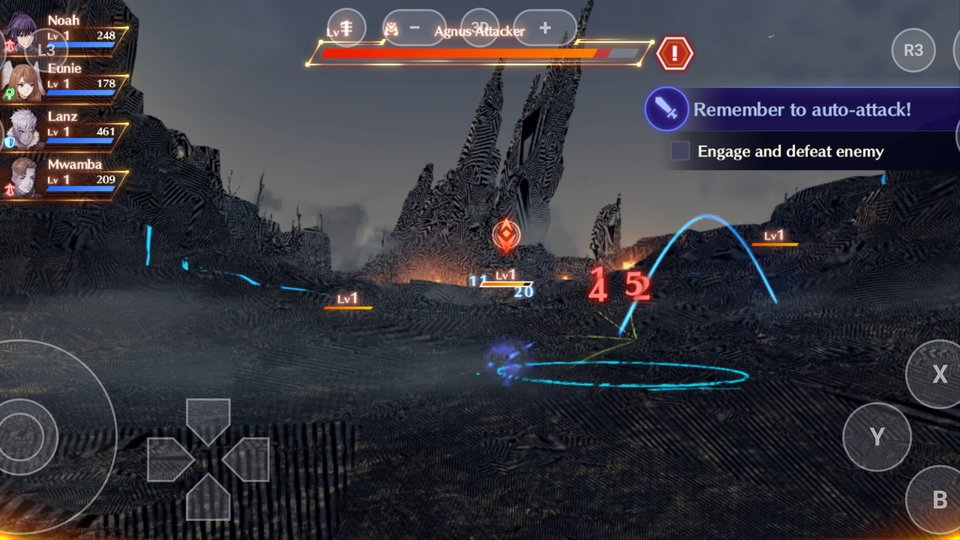
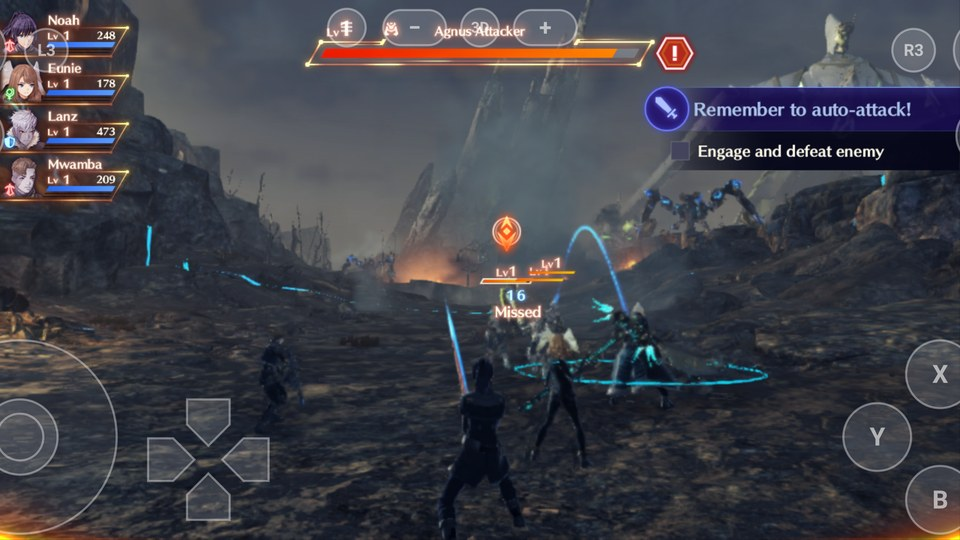
OCTOPATH TRAVELER II, Xenoblade Chronicles 2 and 3: the rows after the stencil-mode fix
#363 landed, and three rows still named what it fixed.
- OCTOPATH TRAVELER II's battlefield streaks were the same stencil-mode read: q256's before/after on the S25 Edge shows the ground drawn right, and q257's alternating A/B found no cost. The row stays Playable – major, since the battlefield's 43–50 fps is under 90% of 60 and nothing is compared with the Mac.
- Xenoblade Chronicles 2's stipple is gone on the S25 Edge and the Z Flip 7 (q255), so it comes off the issues, as #363's own body said it would once #362 landed.
- Xenoblade Chronicles 3's row still blamed undrawn characters, which #349 fixed. q258 has the world and the characters drawn and gameplay at 5.6–7 fps, bound by the replay's skinning path on the CPU, so it stays In-game, blocked with that as the blocker.

Both striped gallery pictures (XC2's and XC3's) give way to clean frames, and XC2's old one stays in its note as the before picture.

Also in this pull request:
- OCTOPATH TRAVELER II's note: the BC-decode remark belongs to the resolved streaks, not to the picture that stays

diff --git a/README.md b/README.md
@@ -169,7 +169,7 @@ gesture bar. On a phone, DroidPlay's on-screen controls are drawn over the game.
 </tr>
 <tr>
 <td align="center" valign="top" width="33%"><img src="docs/images/android/pokemon-legends-arceus-oneplus-pad-3.jpg" width="256" alt="Pokémon Legends: Arceus on a OnePlus Pad 3, from a new game: the player throwing a Poké Ball at Cyndaquil beside a boulder near Prelude Beach, under the on-screen controls"><br><small><b><a href="dm/games/01001F5010DFA000/README.md">Pokémon Legends: Arceus</a></b><br><a href="#tiers"><img src="docs/badges/playable-major.svg" height="20" alt="Playable – major issues"></a><br>OnePlus Pad 3: the first catch, 30 fps</small></td>
-<td align="center" valign="top" width="33%"><img src="docs/images/android/xenoblade-chronicles-2-galaxy-s25-edge.jpg" width="256" alt="Xenoblade Chronicles 2 on a Samsung Galaxy S25 Edge, from a new game: Rex at Argentum's Goldmouth Return Port after Continue, a stipple pattern over the walls and crates, under the on-screen controls"><br><small><b><a href="dm/games/0100E95004038000/README.md">Xenoblade Chronicles 2</a></b><br><a href="#tiers"><img src="docs/badges/playable-major.svg" height="20" alt="Playable – major issues"></a><br>Samsung Galaxy S25 Edge: Argentum, 10–30 fps</small></td>
+<td align="center" valign="top" width="33%"><img src="docs/images/android/xenoblade-chronicles-2-galaxy-z-flip-7.jpg" width="256" alt="Xenoblade Chronicles 2 on a Samsung Galaxy Z Flip 7: King Crustip on the ship's deck at the start of the tutorial battle, Rex in front, drawn clean, under the on-screen controls"><br><small><b><a href="dm/games/0100E95004038000/README.md">Xenoblade Chronicles 2</a></b><br><a href="#tiers"><img src="docs/badges/playable-major.svg" height="20" alt="Playable – major issues"></a><br>Samsung Galaxy Z Flip 7: King Crustip's battle, 30 fps</small></td>
 <td align="center" valign="top" width="33%"><img src="docs/images/android/super-mario-odyssey-retroid-pocket-5.jpg" width="256" alt="Super Mario Odyssey's opening cutscene on a Retroid Pocket 5"><br><small><b><a href="dm/games/0100000000010000/README.md">Super Mario Odyssey</a></b><br><a href="#tiers"><img src="docs/badges/in-game.svg" height="20" alt="In-game"></a><br>Retroid Pocket 5: the opening cutscene, 59 fps</small></td>
 </tr>
 <tr>
@@ -180,7 +180,7 @@ gesture bar. On a phone, DroidPlay's on-screen controls are drawn over the game.
 <tr>
 <td align="center" valign="top" width="33%"><img src="docs/images/android/blasphemous-2-odin-2.jpg" width="256" alt="Blasphemous 2 on an Ayn Odin 2: the Penitent One in the room of the three statues"><br><small><b><a href="dm/games/010040801A4C8000/README.md">Blasphemous 2</a></b><br><a href="#tiers"><img src="docs/badges/in-game.svg" height="20" alt="In-game"></a><br>Ayn Odin 2: the room of the three statues, 60 fps</small></td>
 <td align="center" valign="top" width="33%"><img src="docs/images/android/donkey-kong-country-returns-hd-odin-2.jpg" width="256" alt="Donkey Kong Country Returns HD on an Ayn Odin 2: Donkey Kong on the beach in 1-1 Jungle Hijinxs"><br><small><b><a href="dm/games/01009D901BC56000/README.md">Donkey Kong Country Returns HD</a></b><br><a href="#tiers"><img src="docs/badges/in-game.svg" height="20" alt="In-game"></a><br>Ayn Odin 2: 1-1 Jungle Hijinxs, 60 fps</small></td>
-<td align="center" valign="top" width="33%"><img src="docs/images/android/xenoblade-chronicles-3-galaxy-s25-edge.jpg" width="256" alt="Xenoblade Chronicles 3 on a Samsung Galaxy S25 Edge: the first battle with no characters drawn, the ground and the rocks in black-and-white stripes, under the on-screen controls"><br><small><b><a href="dm/games/010074F013262000/README.md">Xenoblade Chronicles 3</a></b><br><a href="#tiers"><img src="docs/badges/in-game-blocked.svg" height="20" alt="In-game, blocked"></a><br>Samsung Galaxy S25 Edge: the first battle, no characters drawn, the ground striped, 24–30 fps</small></td>
+<td align="center" valign="top" width="33%"><img src="docs/images/android/xenoblade-chronicles-3-galaxy-s25-edge.jpg" width="256" alt="Xenoblade Chronicles 3 on a Samsung Galaxy S25 Edge: Noah and the party fighting an Agnus soldier in the first battle on the Everblight Plain, the ground and the rocks drawn clean, under the on-screen controls"><br><small><b><a href="dm/games/010074F013262000/README.md">Xenoblade Chronicles 3</a></b><br><a href="#tiers"><img src="docs/badges/in-game-blocked.svg" height="20" alt="In-game, blocked"></a><br>Samsung Galaxy S25 Edge: the first battle, 5.6 fps</small></td>
 </tr>
 <tr>
 <td align="center" valign="top" width="33%"><img src="docs/images/android/mario-kart-world-oneplus-pad-3.jpg" width="256" alt="Mario Kart World on a OnePlus Pad 3: Mario in seventh place on the first lap at Mario Bros. Circuit, the track's surface untextured, under the on-screen controls"><br><small><b><a href="dm/games/0400C3F00006E000/README.md">Mario Kart World</a></b><br><a href="#tiers"><img src="docs/badges/in-game-blocked.svg" height="20" alt="In-game, blocked"></a><br>OnePlus Pad 3: a race at Mario Bros. Circuit, 15–21 fps</small></td>
@@ -224,7 +224,7 @@ and what has not been tried.
 | Divinity: Original Sin 2 - Definitive Edition 1.0.3.1 | Ayn Odin 2, OnePlus Pad 3, Google Pixel 9 Pro XL | Playable – minor issues through the second fight below deck (before the locked Greasy Door): the game's 30 fps from a new game through character creation and the opening cinematic into the Merryweather's hold, then by hand to the cabin deck, and on the Odin 2 through the burning hold to the top deck's first fight (two Voidwoken, won), the lifeboat and its dialogue, and below deck a second fight (Void Hatchlings, won with Lohse and Beast), with sound, Quick Saves dated by the host's clock and Continue loading the latest after a cold start. Every window's median frame time 33.1–33.5 ms; four alpha-test red lines in the log, nothing wrong on screen. On the Pixel 9 Pro XL (Mali) the top deck's first fight, won, at 30 fps too, with sound and Continue after a cold start; its GPU takes about 26 ms of the 33 ms frame ([its note](dm/games/010027400CDC6000/README.md#on-the-pixel-9-pro-xl)). On the Pad 3 it runs at 40 or 60 fps with a setting, the game moving by real time at each, and held 60 for 25 minutes ([its note](dm/games/010027400CDC6000/README.md#frame-rate)). Not played as far as Fort Joy |
 | The Legend of Zelda: Breath of the Wild 1.9.0 | Ayn Odin 2, OnePlus Pad 3, Samsung Galaxy S25 Edge, Samsung Galaxy Z Fold 8 | Playable – major issues through the Shrine of Resurrection onto the Great Plateau (no combat yet): 30 fps (its Android target) on the Odin 2, played by hand from a new game: waking in the Shrine, taking the Sheikah Slate, opening its doors and climbing out, then the cutscene over Hyrule and the first minutes on the plateau, with sound, an autosave made on the phone and Continue after a cold start. The Old Man not reached ([its note](dm/games/01007EF00011E000/README.md#android)). Issues: the stretch ends before the first combat; the frame where Link died from a fall had red smears on nearby rocks, not compared with the Mac. The Shrine from a save made on the Mac: 30 fps on the Pad 3 and the S25 Edge with its Android defaults (descriptor sets bound again, the command recorder, a 30 fps target); 24 on the Galaxy Z Fold 8, whose GPU takes 30 ms a frame. On the Pad 3 it lost the GPU at its first frame in the field, and on both Adreno 830s it drew the Shrine dark: both are fixed, checked on the S25 Edge and, by hand from a new game with main's 0.7.5 build, on the Pad 3: the Shrine lit, about 5.5 minutes on the plateau without losing the GPU at 30 fps, and a save loaded by Continue after a cold start. 60 fps needs the replay's CPU time and the GPU's to come down |
 | OCTOPATH TRAVELER 1.0.3 | Google Pixel 9 Pro XL | Playable – major issues through H'aanit's first battles: on the Pixel 9 Pro XL (Mali-G715, Android 17), played over adb from a new game through H'aanit's opening (the flashback and S'warkii), the headman, the Path Actions tutorial and two Provoke battles against the fledgling hunters, both won, then a save at the village's save monument, loaded by Continue after a cold start, and on to the Path to the Whisperwood's first monster battle (a Marmot, broken and beaten), with sound and no crash ([its note](dm/games/010057D006492000/README.md#android)). Built from the cartridge's 1.0.3 with a profile derived from 1.0.5's; the shader split found all 5,434 shaders. The target is 60 fps (the Switch runs it at 30): the battles and the Whisperwood hold 57–60, and the medians were 52.1 fps from the new game to the save and 58.7 from Continue to the Marmot. 3.4 GB at most (the process's memory cgroup), well under Android 17's 8 GiB cap; never killed. Issues: in S'warkii the Mali's GPU takes 17–19 ms a frame, so the village runs at 44–57 fps and its save screen at 38; on the Path to the Whisperwood, pale sharp-edged areas at the top and bottom of the screen where the blurred foreground meets the background, not compared with the Mac (not played that far there). Not yet Playable – minor issues: the median is under 57 fps and those areas aren't compared. Not tried on the other devices |
-| OCTOPATH TRAVELER II 1.0.0 | Samsung Galaxy S25 Edge, Samsung Galaxy Z Flip 7 | Playable – major issues through Hikari's first battle: on the S25 Edge (Adreno 830), played over adb from a new game through the initial settings, Hikari's opening and the battlefield's first battle with its tutorials (won), then free roam on the battlefield and two more battles, with sound and no crash, and the game's autosave on the battlefield loaded by Continue after a cold start; the same on the Galaxy Z Flip 7 (Xclipse 950) ([its note](dm/games/0100A3501946E000/README.md#android)). Built from the cartridge's base game 1.0.0 with a profile derived from 1.1.1's; all 13,942 of its shaders translated. The target is 60 fps (the Switch runs it at 30): the battles, scenes and the camp hold 56–60 on both phones, and the S25 Edge's 30 s windows had a median of 59.1. 3.2–3.3 GB PSS, never killed. Issues: the battlefield's top-down field (1,700–2,050 draws a frame) runs at 43–50 fps; its ground, rocks and the camp's ground are drawn as horizontal streaks on both phones (not the Xclipse's BC decode: the Adreno reads BC itself), not compared with the Mac. The prologue's next fight, Rai Mei's battle with the mounted general, was lost by the agent's plain attacks; not played past it. Not tried on the other devices |
+| OCTOPATH TRAVELER II 1.0.0 | Samsung Galaxy S25 Edge, Samsung Galaxy Z Flip 7 | Playable – major issues through Hikari's first battle: on the S25 Edge (Adreno 830), played over adb from a new game through the initial settings, Hikari's opening and the battlefield's first battle with its tutorials (won), then free roam on the battlefield and two more battles, with sound and no crash, and the game's autosave on the battlefield loaded by Continue after a cold start; the same on the Galaxy Z Flip 7 (Xclipse 950) ([its note](dm/games/0100A3501946E000/README.md#android)). Built from the cartridge's base game 1.0.0 with a profile derived from 1.1.1's; all 13,942 of its shaders translated. The target is 60 fps (the Switch runs it at 30): the battles, scenes and the camp hold 56–60 on both phones, and the S25 Edge's 30 s windows had a median of 59.1. 3.2–3.3 GB PSS, never killed. Issues: the battlefield's top-down field (1,700–2,050 draws a frame) runs at 43–50 fps, under 90% of the target; not compared with the Mac. The battlefield's ground, rocks and the camp's ground were drawn as horizontal streaks on both phones until texture slots in stencil mode read the stencil (the ground clean on the S25 Edge with that fix, no cost in its frame rate). The prologue's next fight, Rai Mei's battle with the mounted general, was lost by the agent's plain attacks; not played past it. Not tried on the other devices |
 | Persona 3 Portable 1.0.2 | Samsung Galaxy S25 Edge, Samsung Galaxy Z Flip 7 | Playable – minor issues through the first battle (April 9's rooftop): 60 fps (as on the Switch) on both, played by hand from a new game through the opening, the dorm and the first school days with their point-and-click exploration, to the night of April 9 and its first battle, won with the buttons, with sound, a save made at the dorm's Sign-In Sheet and Continue working. On the S25 Edge in console mode, on the Z Flip 7 (Xclipse) in Android's default handheld mode, which works on both ([its note](dm/games/0100DCD01525A000/README.md#android)). Issues: none seen on the S25 Edge; on the Z Flip 7, one frame of the opening movie covered in a fine dot grid, not compared with the Mac. Not played past the first battle (Tartarus); not tried on the other devices |
 | Mario Kart 8 Deluxe 4.0.1 | Google Pixel 9 Pro XL, Samsung Galaxy Z Fold 8, Moto Razr Plus 2023, OnePlus Pad 3 | Playable – minor issues through the first 50cc race (the Mushroom Cup at Mario Kart Stadium): on the Pixel 9 Pro XL, two 50cc Grand Prix races at Mario Kart Stadium, both won, at 60 fps (as on the Switch), from a new save: boot, the title's demo race, the Mii pick (the heads blank, as on the Mac), the menus with their movie previews, then the race; the save loads after a cold start, with sound. Those races were steered by the game's Smart Steering with accelerate held over adb; races were steered by hand on a Samsung Galaxy Z Fold 8 (the project's owner), with the steering controls working as expected. The Mali GPU has no BC textures, so they are decoded on the CPU: 4.3 GB resident against the Mac's 2.4. Issue: on the Moto Razr Plus 2023 (Adreno 730) a race runs at about 45 fps, the replay CPU-bound; there, since the course-load crash was fixed ([#243](https://github.com/enjoyerofslop/droidplay-core/pull/243)), the demo race, a 50cc race to its results and the save after a cold start ran, in 1.6 GB, with the title and menus at 60. On the OnePlus Pad 3 (Adreno 830), with the same fix: two demo races and the Mushroom Cup's first two races (Mario Kart Stadium and Water Park) to their results at 60 fps, GPU about 8.5 ms a frame, 2.6 GB, no red lines, and the save after a cold start ([its note](dm/games/0100152000022000/README.md#android)) |
 | Paper Mario: The Thousand-Year Door 1.0.0 | Samsung Galaxy S25 Edge | Playable – minor issues through the first battle (Lord Crump in Rogueport, with Goombella's tutorial): on the S25 Edge, played by hand over adb from a new file through the storybook prologue, Peach in Rogueport, Mario's house and the boat into Rogueport's docks, the first battle won and Goombella joining in the plaza, at a median 29.9 fps over 37 minutes (27.8–30.0 in 30 s windows; the game's own 30 fps), with sound (the prologue movie's on its own output), no crash, and a Save Block save made in the plaza after the battle loaded by Continue after a cold start. It needs [#337](https://github.com/enjoyerofslop/droidplay-core/pull/337) (on main, not yet in a release): without it the low-memory killer ends the game at the prologue's sea scene, its descriptor pools at 6.7 GB. The dump is the 1.0.0 cartridge base, packed from a profile derived from 1.0.1's, so 1.0.1's 60 fps patch doesn't apply ([its note](dm/games/0100ECD018EBE000/README.md#android)). Nothing looked wrong; the prologue's scenes match a Mac run of the same build at the same frames. Not tried on another phone |
@@ -237,9 +237,9 @@ and what has not been tried.
 | Danganronpa V3 Anniversary Edition 1.0.2 | POCO X5 5G | Menus: boots, plays its opening movie and draws its picture, from a provisional profile; not played through † |
 | Donkey Kong Country Returns HD 1.0.0 | Samsung Galaxy S25 Edge, Ayn Odin 2 | In-game: on the S25 Edge (Adreno 830), over adb from a new save through the title, the menus, the opening movie and the treehouse into 1-1 Jungle Hijinxs (running, jumping, damage), at 60 fps (every 30 s window 59.6–60.1), with sound (no underruns) and 2.5 GB PSS; the save loads by Continue after a cold start ([its note](dm/games/01009D901BC56000/README.md#android)). Built from the cartridge's base game 1.0.0 (Unity 2022.3) with a profile derived from 1.1.0's (Unity 6); all 16,718 of its shaders translated. Issue: the opening movie freezes on one frame at about 87 s of its 119, on the S25 Edge and the Ayn Odin 2 alike (A skips it, and the rest works). The Odin 2 (Adreno 740) runs 1-1 at 60 fps too, and the game app stays installed there for a person to play. Not shown playable: a real-time platformer, so its stretch (1-1 to its end) needs a person with a controller. Not tried on the other devices |
 | Pokémon Legends: Arceus 1.1.1 | OnePlus Pad 3, Samsung Galaxy Z Flip 7, Samsung Galaxy Z Fold 8, Google Pixel 9 Pro XL | Playable – major issues through Prelude Beach's catching tutorial and on into Jubilife Village: from a new game, played by hand over adb at v0.8.2, on two GPU families. On the OnePlus Pad 3 (Adreno 830): the language, the name typed in the text box, Arceus's opening and the fall to Prelude Beach, Professor Laventon and the three Pokémon, the Arc Phone, and Cyndaquil caught with the third Poké Ball thrown; then a save from the game's menu, a cold start and Continue back where it was saved. 30 fps as on the Switch (median 29.9 over 32 minutes), with sound running (no underruns; not listened to), one red line (a depth-stencil clear with no depth target set), no crash or kill, 1.9 GB resident. On the Galaxy Z Flip 7 (Xclipse 950): the opening, all three of Laventon's Pokémon caught (Cyndaquil behind the rocks, Oshawott in the pond, Rowlet on a ledge), a save, a cold start and Continue back in the field, then Jubilife Village with Laventon, the Wallflower and the village at night, saved again there; 30 fps through the beach and the catches (median 29.9 over 34.5 minutes, worst 30 s window 28.8, the view of Mount Coronet included), 18–28 fps in Jubilife (median 24.4 over 21 minutes), the same single red line, no crash or kill, 2.0 GB resident ([its note](dm/games/01001F5010DFA000/README.md)). Loaded from the Flip's saves on the Mac, the title's beach, the field facing Mount Coronet after Continue (brightness percentiles within 3 of each other) and the village at night look the same as on the Flip. Issues that keep it from Playable – minor issues: the game's first battle comes the morning after Jubilife and wasn't reached; the view of Mount Coronet and the rift runs at 21–26 fps on the Pad 3 for about a minute (GPU 18–25 ms a frame, against 13–17 elsewhere; 30 fps on the Flip); Jubilife runs at 18–28 fps on the Flip (GPU 17–22 ms a frame, but there the replay waits for submissions in flight 3–4.5 times a frame, against under one on the beach); on the Flip, rocks near the camera show contour-like stripes that the Pad 3's and the Mac's pictures of the same rocks don't have. From someone else's saves, which don't count toward the tier, on the Pad 3 and the Galaxy Z Flip 7 (Xclipse 950), played step by step over adb for about 12 minutes each: walking and riding in the Coronet Highlands and the Obsidian Fieldlands, fast travel, a battle and a catch, the Satchel and Save menus, and a save made on Android loaded again after a cold start, at 30 fps (Pad 3: median 30.1, worst 30 s window 28.5; Flip: median 29.9, worst 21.8 while 248 pipelines were first built, 28–30 after), the same single red line and no crash. Earlier: on the Galaxy Z Fold 8 (Adreno 840, its cover display), by hand from a new game through the opening to walking Prelude Beach, at 30 fps (median 29.9 over 18 minutes, no 30 s window under 90%), 1.6 GB resident and no kill by Android 17's memory limit. The picture was washed out and shadowless on Android until the vertex shaders' unwritten outputs were started as (0, 0, 0, 1) ([Unwritten components of a written output start as (0, 0, 0, 1) on Android too](docs/reference/shaders.md#unwritten-components-of-a-written-output-start-as-0-0-0-1-on-android-too)); with that, the beach matches the Mac's picture on the Fold 8. On the Pixel 9 Pro XL (Mali-G715) the same opening runs at 30 fps, with the characters and Pokémon drawn too: the game skins them with transform feedback, which on a GPU without vertex-stage storage writes is now [captured in the fragment stage](docs/reference/rendering.md#transform-feedback-captured-in-the-fragment-stage-android) (checked through the Prelude Beach dialogue). Built with the phone decode of the game's Oodle archives ([#320](https://github.com/enjoyerofslop/droidplay-core/pull/320)) |
-| Xenoblade Chronicles 2 2.1.0 | Samsung Galaxy S25 Edge, Samsung Galaxy Z Flip 7, Moto Razr Plus 2023 | Playable – major issues through Argentum and the first save: on the Galaxy S25 Edge (Adreno 830), at v0.8.2, played by hand over adb from a new game (Normal): the opening (the Cloud Sea, the salvage dive, Rex and Gramps), King Crustip's tutorial battle won with auto-attacks and the Anchor Shot art, the scenes after it, the arrival at the Argentum Trade Guild and its field tutorials, and walking at Goldmouth Return Port; then System → Save, a cold start and Continue back at the same spot. 30 fps as on the Switch through the opening and the battle (29.9 over 15.5 minutes, worst 30 s window 28.9), with sound running (no underruns; not listened to), no red line, no crash or kill, up to 3.3 GB PSS ([its note](dm/games/0100E95004038000/README.md#android)). Issues that keep it from Playable – minor issues: a dark stipple and stripe pattern over the characters' skin, hair and clothes and over much of the world (crates, walls, Gramps's scales), which the Mac's picture doesn't have; Argentum runs at 10–16 fps looking into the town (2,200–2,800 draws, GPU 38–62 ms a frame, against about 20 elsewhere) and at 30 looking out over the docks, about 20 fps over its 6.5 minutes; only the first battle was played. Earlier, no character was drawn on any phone until the replay ran draws under rasterizer discard that write memory (its GPU skinning); with that fix the Moto Razr Plus 2023 (Adreno 730) played through King Crustip's battle at a steady 30 fps too, and before it the Galaxy Z Flip 7 (Xclipse 950) reached King Crustip at 30 fps. Built from the cartridge's 2.1.0 (registered) with a shader-only derived profile, as the dump has no DLC; all 12,738 shaders translated. Not tried on the other devices |
+| Xenoblade Chronicles 2 2.1.0 | Samsung Galaxy S25 Edge, Samsung Galaxy Z Flip 7, Moto Razr Plus 2023 | Playable – major issues through Argentum and the first save: on the Galaxy S25 Edge (Adreno 830), at v0.8.2, played by hand over adb from a new game (Normal): the opening (the Cloud Sea, the salvage dive, Rex and Gramps), King Crustip's tutorial battle won with auto-attacks and the Anchor Shot art, the scenes after it, the arrival at the Argentum Trade Guild and its field tutorials, and walking at Goldmouth Return Port; then System → Save, a cold start and Continue back at the same spot. 30 fps as on the Switch through the opening and the battle (29.9 over 15.5 minutes, worst 30 s window 28.9), with sound running (no underruns; not listened to), no red line, no crash or kill, up to 3.3 GB PSS ([its note](dm/games/0100E95004038000/README.md#android)). Issues that keep it from Playable – minor issues: Argentum runs at 10–16 fps looking into the town (2,200–2,800 draws, GPU 38–62 ms a frame, against about 20 elsewhere) and at 30 looking out over the docks, about 20 fps over its 6.5 minutes; only the first battle was played. A dark stipple and stripe pattern over the characters and much of the world (crates, walls, Gramps's scales), which the Mac's picture doesn't have, is gone since texture slots in stencil mode read the stencil (checked on the S25 Edge and the Galaxy Z Flip 7, 30 fps). Earlier, no character was drawn on any phone until the replay ran draws under rasterizer discard that write memory (its GPU skinning); with that fix the Moto Razr Plus 2023 (Adreno 730) played through King Crustip's battle at a steady 30 fps too, and before it the Galaxy Z Flip 7 (Xclipse 950) reached King Crustip at 30 fps. Built from the cartridge's 2.1.0 (registered) with a shader-only derived profile, as the dump has no DLC; all 12,738 shaders translated. Not tried on the other devices |
 | The Binding of Isaac: Afterbirth+ 1.7.9b | POCO X5 5G | Boots: runs from a provisional profile with its Repentance DLC, its shaders compiled at run time and captured on the phone; how far it got isn't recorded † |
-| Xenoblade Chronicles 3 1.0.0 | Samsung Galaxy S25 Edge, Samsung Galaxy Z Flip 7 | In-game, blocked: on both phones, over adb from a new game through the title, the opening's cutscenes and the first battle (won) to walking on the Everblight Plain, at 30 fps (the median of 30 s windows; 24–30 on the S25 Edge), with sound (no underruns), 3.6 GB PSS on the S25 Edge and 4.2 GB on the Z Flip 7. The Adreno 830 didn't lose the device at the title, which draft [#203](https://github.com/enjoyerofslop/droidplay-core/pull/203) was expected to be needed for ([its note](dm/games/010074F013262000/README.md#android)). Built from the cartridge's base game 1.0.0 with a profile derived from 2.2.1's; all 26,907 of its shaders translated. What blocks it, on both GPUs: the characters are drawn only in cutscenes, not in battle or the field (a transform-feedback vertex shader with no capture variant, red line); the Mac's 2.2.1 runs drew them. The titans, the ground and the rocks were drawn as black-and-white stripes, fixed since stencil-mode texture slots read the stencil (checked on the S25 Edge). Saving untested (no autosave within the stretch). Not tried on the other devices |
+| Xenoblade Chronicles 3 1.0.0 | Samsung Galaxy S25 Edge, Samsung Galaxy Z Flip 7 | In-game, blocked: on the Galaxy S25 Edge (Adreno 830), over adb from a new game (Easy), through the title, the opening's cutscenes, the first battle on the Everblight Plain (won by auto-attacks), the walk across the plain and into the second battle. The world is drawn right since texture slots in stencil mode read the stencil (no more black-and-white stripes on the titans, the ground and the rocks), and the party, the soldiers and the enemies are drawn in battle and on the field since draws under rasterizer discard that write memory run as dispatches. What blocks it: gameplay runs at 5.6–7 fps (frames of 140–190 ms) while the opening's cutscenes hold 30 as on the Switch. The replay's handling of the characters' skinning draws (scratch and home copies, about 45 MB of write-backs and 45 waits on the GPU a frame) leaves the frame bound by the CPU, with the GPU two-thirds idle at its lowest clock. At that rate arts didn't register over adb. One red line (a transform-feedback vertex shader with no capture variant); 3.4–3.5 GB PSS with about 0.55 GB swapped, no kill in 27 minutes ([its note](dm/games/010074F013262000/README.md#android)). Before those fixes, on both phones, the first battle and the plain ran at 30 fps with no characters drawn and the world striped; the Galaxy Z Flip 7 (Xclipse 950) hasn't been run since. Built from the cartridge's base game 1.0.0 with a profile derived from 2.2.1's; all 26,907 of its shaders translated. Saving untested (no autosave within the stretch). Not tried on the other devices |
 | **Mario Kart World 1.8.0 (Switch 2)** | OnePlus Pad 3, Galaxy S25 Edge with the Turnip T30 driver, Google Pixel 9 Pro XL, Ayn Odin 2 | **In-game, blocked** (2026-11-11, on the OnePlus Pad 3 with Qualcomm's own driver): the title, the menus by adb input, and a Mushroom Cup race at Mario Bros. Circuit, driven and steered, at 20–26 fps in the race (frames of 34–50 ms; the replay's CPU 23–38 ms, the GPU 18–29 ms) with raw global memory, which its profile turns on, and 15–22 fps without, the menus at about 30 fps; the track untextured (sparse textures), no roadside bushes (no mesh shaders). The Galaxy S25 Edge reached the same race with Mr. Purple's Turnip T30 through `DM_VK_DRIVER`. 168 of its compute shaders declare 48 KB of shared memory, past the 32 KB that Qualcomm's driver takes: they now take it from a storage buffer there; without that the GPU is lost about 10 s after the title. The faults now and then in the menus and races (in Qualcomm's driver on the Pad 3, in the replay on the S25 Edge, in Mali's driver on a Google Pixel 9 Pro XL) came from holes that a refused virtual pool mapping left in the pool's reservation, fixed by [#298](https://github.com/enjoyerofslop/droidplay-core/pull/298): with it, the Pixel 9 Pro XL went through the menus and ran a race out in 4 runs of 4 (all 4 failed before), at about 10 fps in the race (frames of 97–99 ms, the GPU 45 ms), and the S25 Edge ran two more races without a fault. The Odin 2 (2026-11-08): the world map at about 55 fps, the attract drive at about 3.4 fps. Open: memory (0.5–0.7 GB left on the 12 GB Pad 3 in a race; faster runs with raw global memory were killed), sparse textures, virtual memory pools, no mesh shaders |
 | **The Legend of Zelda: Ocarina of Time v131072 (Switch 2)** | Samsung Galaxy Z Fold 8, Samsung Galaxy S25 Edge, Samsung Galaxy Z Flip 7, Google Pixel 9 Pro XL, Ayn Odin 2, Moto Razr Plus 2023 | **In-game, blocked:** under half the target frame rate (60 fps). From a Mac save, Kokiri Forest, Saria's scene and the Sacred Grove's Mad Scrub fight draw lit on the Adreno 830 and 840 with no kill (Galaxy S25 Edge 3 runs of 3, Galaxy Z Fold 8 5 launches), at 13–18 fps: on the Fold a median of 15–17 fps in Kokiri Forest and Saria's scene, about 20 in the Grove. The Galaxy Z Flip 7 (Xclipse 950) draws it lit at about 12 fps, 8.25 GB at most; the Pixel 9 Pro XL (Mali) lit at about 9 fps. On older Qualcomm drivers for the Adreno 7xx (the Odin 2's 740 at V@0676, the Razr's 730 at V@0615) the characters are dark: the driver rejects the pointer conversion (`OpConvertUToPtr`) raw global memory uses; the 740 with Turnip T30 draws them lit at about 9 fps; raw global memory through a descriptor array builds the shaders there, but with them the game no longer fits the Odin 2's memory, so its profile keeps that off. The pale, flat water patches in Kokiri Forest were terrain tiles left undrawn, whose maps the game fills from the CPU before it makes their textures: they draw since [#315](https://github.com/enjoyerofslop/droidplay-core/pull/315) (checked on the Galaxy Z Fold 8). Open: the frame rate (the CPU's submission, about 20 µs a draw), the mesh-shaded foliage left out (no mesh stage on Vulkan yet), and a stall of about 10 s at the first start while the pipelines build |
 

diff --git a/dm/games/010074F013262000/README.md b/dm/games/010074F013262000/README.md
@@ -12,7 +12,7 @@ opening movies, the first enemy defeat, destination tutorials, walking and the
 engagement-area collision boundary work. All 27,055 base/update shaders compile
 for Mac and iOS. The unsigned IPA is built and its archive checks pass.
 
-On Android, the cartridge's base game 1.0.0 reaches the first battle without losing the device, but draws its characters only in cutscenes; its world, once striped, is drawn with its textures since the replay reads stencil-mode texture slots' stencil ([Android](#android)).
+On Android, the cartridge's base game 1.0.0 reaches the first battle without losing the device, with its world and its characters drawn (stencil-mode texture slots and draws under rasterizer discard), but its gameplay runs at 5.6–7 fps, bound by the replay's handling of the skinning draws ([Android](#android)).
 
 iOS runtime testing, DLC gameplay and later-game allocation peaks remain open.
 The supplied four DLC packs are included; their additional shaders have not been
@@ -209,8 +209,8 @@ Both in handheld mode, driven over adb with `DM_CTL`.
 - **No lost device:** the triage expected the Adreno to lose the device a few seconds into the title until #203 lands. On this `main` it didn't: the S25 Edge ran the title, the opening and the first battle for about 11 minutes without it.
 - **What was played on both phones:** the auto-save notice, the title, New Game, Normal, the opening's cutscenes, the first battle against the Agnus Attacker (the auto-attack tutorial, won with auto-attacks and arts), the Destinations and Tips tutorials, and walking on the Everblight Plain.
 - **The picture, both phones:**
-  - **Characters drawn only in cutscenes:** in the opening's cutscenes Noah, Eunie, Lanz and the soldiers draw. In battle and in the field the party doesn't: no Noah behind the camera, only the effects of his arts.
-    - Both phones log one `[RED] transform feedback with vertex shader 0b8bcbe86791ef65, which has no capture variant: nothing captured`. Gameplay skins the characters through transform feedback, and this vertex shader's capture variant is missing.
+  - **Resolved, characters drawn only in cutscenes:** in the opening's cutscenes Noah, Eunie, Lanz and the soldiers drew; in battle and in the field the party didn't, only the effects of his arts. Gameplay skins the characters with vertex-only draws under rasterizer discard outside transform feedback, which the replay left out; they draw since those run as dispatches ([Draws under rasterizer discard that write memory](../../../docs/reference/rendering.md#draws-under-rasterizer-discard-that-write-memory-android)).
+    - Both phones log one `[RED] transform feedback with vertex shader 0b8bcbe86791ef65, which has no capture variant: nothing captured`. It wasn't the characters' skinning; it stays.
   - **Resolved, the world striped:** the titans on the title screen, the plain's ground, its rocks and the wreckage were drawn as black-and-white zebra stripes instead of their textures; the sky, the UI, the fire and the arts' effects looked right. The lighting reads a depth-stencil buffer in stencil mode, and the Vulkan replay read its depth there ([Stencil-mode texture slots read the stencil](../../../docs/reference/rendering.md#stencil-mode-texture-slots-read-the-stencil-android), found on Xenoblade Chronicles 2). With the fix (2026-11-12, the S25 Edge, this game app with only the host swapped), the title's titans and the plain are drawn with their textures.
   - The Mac's 2.2.1 runs drew the terrain and the characters; 1.0.0 wasn't run on the Mac.
   - On the S25 Edge, Qualcomm's driver also logged 842 "Failed to link shaders" lines with no `[RED]` from the host; the Z Flip 7's driver logged none.
@@ -222,6 +222,11 @@ Both in handheld mode, driven over adb with `DM_CTL`.
 - **Memory:** 3.56 GB PSS on the S25 Edge (1.03 GB graphics) and 4.20 GB on the Z Flip 7 (1.92 GB graphics). Neither was killed.
 - **Save:** no save commit within the stretch (the game saves automatically, but not before this point), so saving and Continue are untested.
 - **Not tried:** past the first walk on the Everblight Plain, and the other devices.
+- **2026-11-12, both fixes, on the Galaxy S25 Edge:** the sprint's game app with a host from the stencil-mode fix's head (which has the rasterizer-discard dispatches), a new game on Easy (so auto-attacks carry the battles over adb) in an empty private save.
+  - **Played:** the title, the opening's cutscenes, the first battle on the Everblight Plain (the auto-attack tutorial, won), the Destinations and Tips boxes, the walk toward the next marker, and the second battle up to its arts tutorial. Arts presses reached the host but didn't register (the tutorial's count stayed 0/5) at that frame rate, so the run stopped there.
+  - **Picture:** the titans, the plain's ground and rocks, the spires and the Levnis are drawn with their textures, and the party, the soldiers and the enemies are drawn in battle and on the field. The log names the stencil-mode slot once (`531d637463e53486`, format 130).
+  - **Frame rate:** the title and the opening's cutscenes 27–30 fps (GPU 17–24 ms). The first battle 5.6–5.8 fps (frames of 179–193 ms, GPU 63–66 ms, about 1,430 draws), the plain 6.4–7.1, the second battle 5.9–6.9. The GPU's clock was at its lowest step, 160 MHz, in 78% of the samples: it is busy for about a third of each frame, and the frame is bound by the replay's CPU side. Per gameplay frame: 117 discarded-draw dispatches, 76 writes through scratch copies, 45 home copies made, 45 waits on the current submission, 45 write-backs (about 45 MB) that take the completion thread about 16 ms, and 4 ms waiting for a free command buffer. The rasterizer-discard fix's first XC3 run measured the same battle at about 5 fps without the stencil-mode fix, so the stencil-mode fix doesn't change the speed.
+  - **Red lines, memory:** the transform-feedback line above, once; PSS 3.44–3.51 GB with about 0.55 GB swapped; no crash or kill in 27 minutes.
 
 ## Found on this game
 

diff --git a/dm/games/0100A3501946E000/README.md b/dm/games/0100A3501946E000/README.md
@@ -73,8 +73,10 @@ Both in handheld mode, driven over adb with `DM_CTL`.
     - Over the 17-minute run: frame p50 16.96 ms, 35 windows from 43.2 to 59.8 fps, median 59.1.
   - **Z Flip 7:** the same shape, battlefield 42–50 fps and battles 55–60 (GPU p50 12.9 ms). Its long run spent most of its 39 minutes on the battlefield, so its window median is 44.6.
 - **Sound:** CRIWARE's 6-channel `AudioOut`, with no underrun on either phone. The `DM_AUDIO_DUMP` has the music and effects (RMS about 800–1,650 in play). Not listened to by a person.
-- **Picture:** the battlefield's ground, seen from above, is drawn as horizontal streaks, the texture smeared along the rows. The rocks and the camp's ground show it too.
-  - It's the same on both phones, and the Adreno reads BC textures natively, so it isn't the Xclipse's CPU BC decode.
+- **Resolved, the battlefield streaked (2026-11-12):** the battlefield's ground, seen from above, was drawn as horizontal streaks, the texture smeared along the rows; the rocks and the camp's ground showed it too. A texture slot reads the depth-stencil buffer in stencil mode there (shader `189c22492568d06e`, format 130), and the Vulkan replay read its depth ([Stencil-mode texture slots read the stencil](../../../docs/reference/rendering.md#stencil-mode-texture-slots-read-the-stencil-android)). With that fix the S25 Edge draws the ground as sand and dunes (q256: OT2's game app with v0.8.2's host, then with the fix's, each from a new game to Hikari standing on the battlefield). An alternating A/B of ten blocks on the battlefield (q257) found no cost: at the same GPU clock, GPU time 14.9 against 14.9 ms a frame and about 52 fps both. The S25's governor holds the battlefield at either 389 or 342 MHz, and the slower state, which gives 44–49 fps, came on both hosts.
+  ![The Hinoeuma battlefield on a Galaxy S25 Edge: streaked with v0.8.2's host (above), sand and dunes with the stencil-mode fix (below)](../../../docs/images/android/octopath-traveler-ii-battlefield-before-after.jpg)
+  - It was the same on both phones, and the Adreno reads BC textures natively, so it wasn't the Xclipse's CPU BC decode. The Galaxy Z Flip 7 hasn't been run with the fix.
+- **Picture, otherwise:**
   - The battle scenes, the cutscene views of the desert, the menus and the traveler selection's map look right.
   - Not compared with the Mac. No `[RED]` line on either phone.
 - **Memory:** 3.17 GB PSS on the S25 Edge (native heap 1.5 GB, graphics 1.0 GB) and 3.3 GB on the Z Flip 7 (graphics 1.35 GB); no swap to speak of. Neither was killed.
@@ -82,7 +84,7 @@ Both in handheld mode, driven over adb with `DM_CTL`.
 - **Driving it over adb:** `env.txt` with `DM_CTL`, `DM_NVN_TSV` and `DM_AUDIO_DUMP` in the game app's external files.
   - Make the run folder `chmod 2777`, or the shell can't read the dumps the app writes.
   - From the battlefield's start: walk up, press A at the soldiers and through the dialogue, B to close each tutorial, and A on Attack and the target in battle. The X menu's Miscellaneous holds Settings, Tutorial and Return to Title.
-- **Not Playable – minor issues:** the battlefield's windows fall to 43 fps (under 90% of 60), and the streaks aren't compared with the Mac.
+- **Not Playable – minor issues:** the battlefield's windows fall to 43 fps (under 90% of 60), and nothing is compared with the Mac.
 - **Not tried:** past Rai Mei's story battle, and the other devices.
 
 ## Found on this game

diff --git a/dm/games/0100E95004038000/README.md b/dm/games/0100E95004038000/README.md
@@ -21,7 +21,7 @@ System → Save and a restart into Argentum were exercised during bring-up;
 the save was created with the isolated winding diagnostic and reloaded with
 the production path. The final fixed host also loads it and walks in Argentum.
 
-On Android, 2.1.0 is Playable – major issues on the Galaxy S25 Edge, from a new game through King Crustip's battle and Argentum to a save and Continue (2026-11-12): 30 fps through the opening and the battle, 10–30 fps in Argentum, and a dark stipple pattern over the characters and much of the world, still open ([Android](#android)).
+On Android, 2.1.0 is Playable – major issues on the Galaxy S25 Edge, from a new game through King Crustip's battle and Argentum to a save and Continue (2026-11-12): 30 fps through the opening and the battle, 10–30 fps in Argentum; the dark stipple pattern over the characters and much of the world it had then is fixed ([Android](#android)).
 
 ## Profile and memory
 
@@ -292,7 +292,9 @@ Both in handheld mode, driven over adb with `DM_CTL`.
   and much of the world (crates, walls, the rock spires on the deck) carried the same pattern; the Mac's frames are clean. The deferred lighting classifies
   pixels by stencil bits 3 and 4 (`3a65a75970c5ac32`, `68bd4ad78d01642b`), read through a stencil-mode view of the depth-stencil buffer, and the Vulkan replay
   read its depth there ([Stencil-mode texture slots read the stencil](../../../docs/reference/rendering.md#stencil-mode-texture-slots-read-the-stencil-android)).
-  It wasn't Adreno-only: the Pixel 9 Pro XL's Mali-G715 drew the same. With the fix, the S25 Edge's battle frames and the Pixel's rock spires are clean, 30 fps.
+  It wasn't Adreno-only: the Pixel 9 Pro XL's Mali-G715 drew the same. With the fix, the S25 Edge's battle frames and the Pixel's rock spires are clean, 30 fps. The Galaxy Z Flip 7 (Xclipse 950) too: the game app at v0.8.2, then with the fix's host, each from a new game to King Crustip, has the stipple, then is clean in the same frames, median 30.1 fps both (q255).
+  ![Xenoblade Chronicles 2 on a Galaxy S25 Edge at v0.8.2, before the fix: Rex at Goldmouth Return Port, a stipple pattern over the walls and crates](../../../docs/images/android/xenoblade-chronicles-2-galaxy-s25-edge.jpg)
+  ![Xenoblade Chronicles 2 on a Galaxy Z Flip 7 with the fix: King Crustip on the ship's deck, drawn clean](../../../docs/images/android/xenoblade-chronicles-2-galaxy-z-flip-7.jpg)
   The Pixel draws no characters either way (no `vertexPipelineStoresAndAtomics` on the Mali, so the skinning draws are left out).
 - **Frame rate:** 30 fps (the target), every 60 s window 29.6–30.1 on the S25 Edge over 12.5 minutes, frame p50 33.2 ms; GPU 18–23 ms on the S25 Edge, 12.5–13 ms on the Z Flip 7.
 - **Sound:** a stereo `AudioOut`, no underrun on either phone. The `DM_AUDIO_DUMP` has signal (RMS about 640–1,360). Not listened to by a person.
